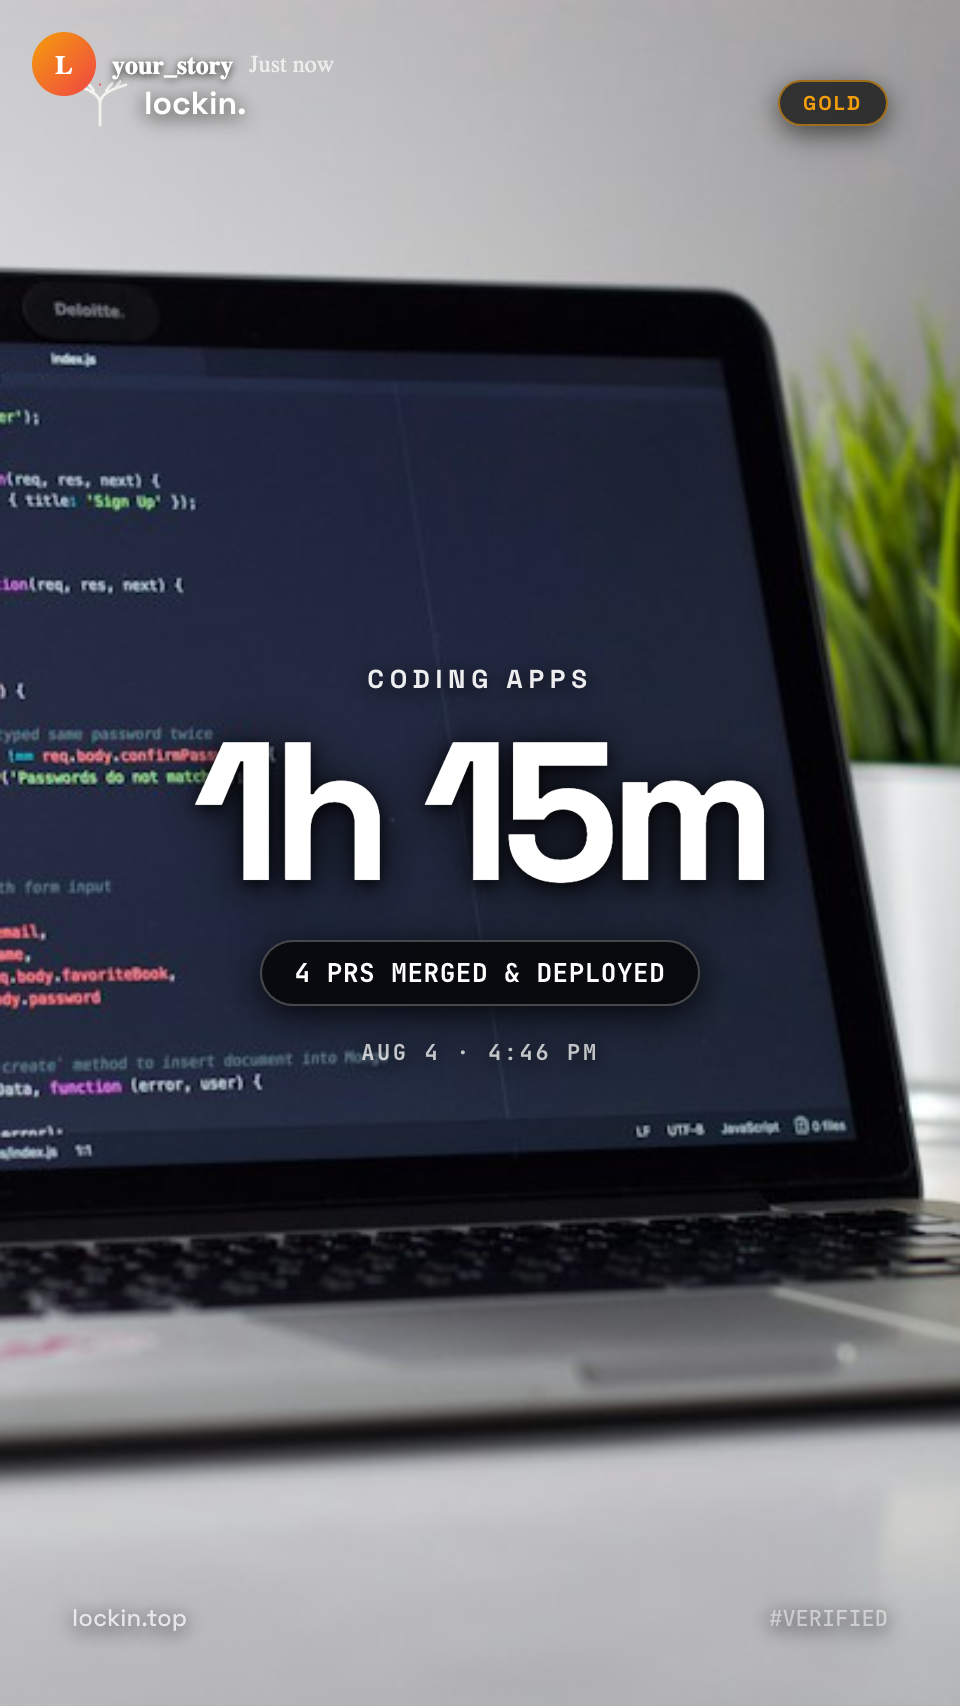
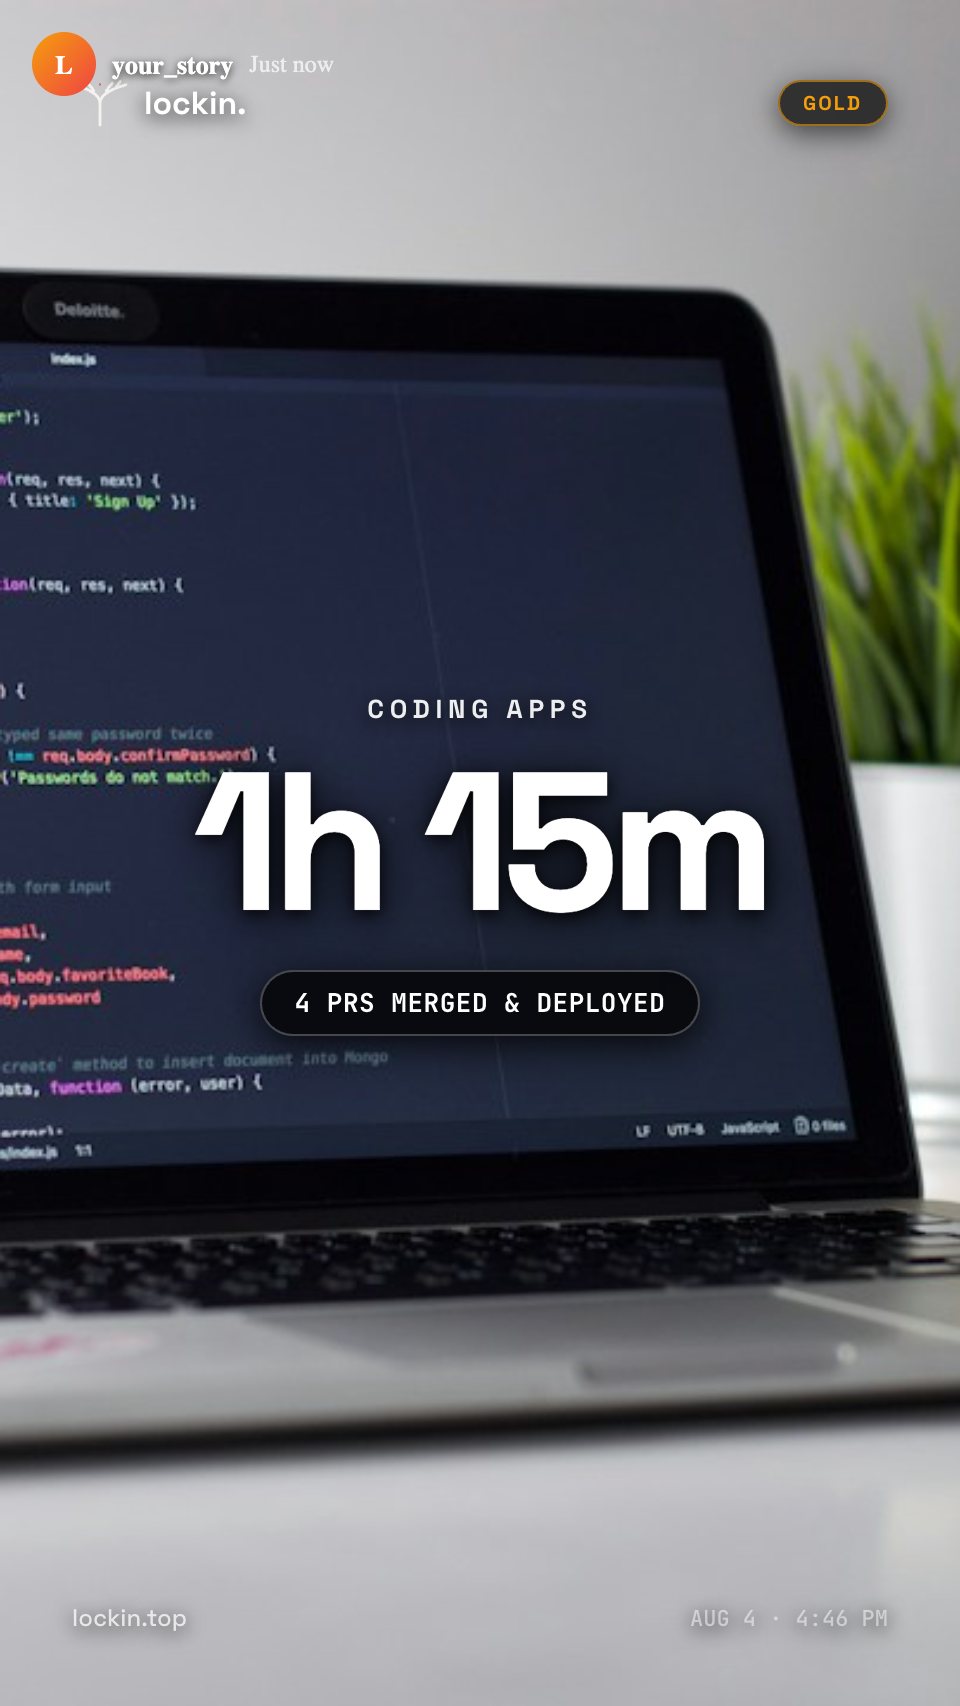
fix(recap): remove #VERIFIED, eliminate fake #1 rank, deduplicate card copy and verify transparent png stickers

Changed region(s): [[0.1875, 0.3728, 0.8125, 0.6213], [0.8125, 0.932, 0.875, 0.9631], [0.7188, 0.932, 0.75, 0.9631]]

diff --git a/frontend/components/RecapCard.tsx b/frontend/components/RecapCard.tsx
@@ -40,6 +40,7 @@ interface RecapProps {
     currentStreak?: number;
     rank?: number;
     missionRank?: number;
+    participantCount?: number;
     missionsCompleted?: number;
     longestSession?: number;
     generatedAt?: string;
@@ -198,6 +199,16 @@ export default function LockinRecapCard({
   const longestHrs = Math.floor(longestDuration / 60);
   const longestMins = longestDuration % 60;
   const longestLockText = `${longestHrs}h ${longestMins}m`;
+
+  const isGroupCrew = (recapData.participantCount ?? 1) > 1 && Boolean(recapData.missionRank || recapData.rank);
+  const fourthLabel = isPeriod ? "Longest" : isGroupCrew ? "Crew Rank" : "Focus";
+  const fourthValue = isPeriod
+    ? longestLockText
+    : isGroupCrew
+      ? `#${recapData.missionRank ?? recapData.rank}/${recapData.participantCount}`
+      : isFailed
+        ? "Crash"
+        : "100%";
 
   const date = generatedAt
     ? new Date(generatedAt).toLocaleDateString("en-US", {
@@ -868,10 +879,6 @@ export default function LockinRecapCard({
                                   </span>
                                 </div>
                               )}
-
-                              <span className="mt-3 font-mono text-[11px] font-medium tracking-wider text-white/75 uppercase drop-shadow-[0_2px_8px_rgba(0,0,0,0.9)]">
-                                {date}
-                              </span>
                             </div>
 
                             {/* Floating Minimal Footer */}
@@ -937,7 +944,6 @@ export default function LockinRecapCard({
                             {/* Bottom Brand Stamp */}
                             <div className="flex items-center justify-between text-[11px] text-white/70 drop-shadow-[0_2px_8px_rgba(0,0,0,0.9)]">
                               <span>lockin.top</span>
-                              <span className="font-mono text-[10px] text-white/50">#VERIFIED</span>
                             </div>
                           </div>
                         )}
@@ -1105,7 +1111,7 @@ export default function LockinRecapCard({
                             <div className="border-b border-white/10"><Stat label="Tasks" value={tasksCompleted} /></div>
                             <div className="border-b border-white/10"><Stat label={isPeriod ? "Missions" : "Streak"} value={isPeriod ? recapData.missionsCompleted ?? 0 : `${streakVal}d`} /></div>
                             <Stat label="Category" value={categoryVal} />
-                            <Stat label={isPeriod ? "Longest" : "Rank"} value={isPeriod ? longestLockText : `#${recapData.missionRank ?? recapData.rank ?? 1}`} />
+                            <Stat label={fourthLabel} value={fourthValue} />
                           </div>
 
                           {/* Clean Footer */}
@@ -1205,7 +1211,7 @@ export default function LockinRecapCard({
                         <span className="text-ink-4">/</span>
                         <span className="tabular text-[11px] text-ink-3">#{recapData.shareId ? recapData.shareId.slice(0, 8) : "lockin"}</span>
                       </div>
-                      <span className="text-[11px] text-ink-3">Tap to flip</span>
+                      <span className="tabular text-[11px] text-ink-3">{date}</span>
                     </div>
                     <motion.div className="pointer-events-none absolute inset-0 z-50 rounded-sm mix-blend-overlay" style={{ background: glareBackgroundBack, opacity: 0.4 }} />
                   </div>

diff --git a/frontend/backend/src/controllers/recapController.js b/frontend/backend/src/controllers/recapController.js
@@ -116,12 +116,14 @@ async function finishSession(req, res) {
       const maxPastStreak = allUserRecaps.reduce((m, r) => Math.max(m, r.streak), 0);
       const first = allUserRecaps.length === 0;
 
-      // Crew size and rank within this mission.
+      // Crew size and rank within this mission (only ranked if multi-participant crew).
       const crew = isSolo
         ? 1
         : 1 + (await tx.participation.count({ where: { missionId, userId: { not: mission.createdBy || 0 }, status: { in: ["Accepted", "Executing", "Completed"] } } }));
       const others = await tx.sessionRecap.findMany({ where: { missionId, userId: { not: userId } }, select: { sessionDuration: true, tasksCompleted: true } });
-      const rank = 1 + others.filter((r) => r.sessionDuration > sessionDuration || (r.sessionDuration === sessionDuration && r.tasksCompleted > tasksCompleted)).length;
+      const rank = crew > 1
+        ? 1 + others.filter((r) => r.sessionDuration > sessionDuration || (r.sessionDuration === sessionDuration && r.tasksCompleted > tasksCompleted)).length
+        : null;
 
       const user = await tx.user.findUnique({ where: { id: userId }, select: { reputationScore: true } });
       const weekAgo = now.getTime() - 7 * 86400e3;
@@ -462,7 +464,7 @@ async function getMissionRecap(req, res) {
         sessionDuration: 45,
         tasksCompleted: 3,
         streak: 2,
-        missionRank: 1,
+        missionRank: null,
         shareId: "mock-share-" + missionId,
         recapType: "session",
         generatedAt: new Date().toISOString()
@@ -531,7 +533,7 @@ async function getPublicShareRecap(req, res) {
         sessionDuration: 180,
         tasksCompleted: 8,
         streak: 4,
-        missionRank: 1,
+        missionRank: null,
         achievements: [{ id: 1, title: "Consistent Agent" }],
         participantCount: 1,
         generatedAt: new Date().toISOString(),

diff --git a/frontend/app/recap/[shareId]/page.tsx b/frontend/app/recap/[shareId]/page.tsx
@@ -80,7 +80,9 @@ export default function PublicShareRecap() {
     ? [
         { label: "Tasks", value: recap.tasksCompleted },
         { label: "Streak", value: `${recap.streak}d` },
-        recap.missionRank ? { label: isCollaborative ? "Rank in crew" : "Rank", value: `#${recap.missionRank}` } : null,
+        recap.missionRank && isCollaborative
+          ? { label: "Crew Rank", value: `#${recap.missionRank}/${recap.participantCount}` }
+          : { label: "Focus", value: "100%" },
         recap.categorySnapshot ? { label: "Category", value: recap.categorySnapshot } : null
       ]
     : [
